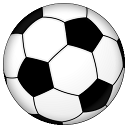
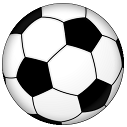
updates
- circular cropping of the ball image
- added ball rotation animation
- increased gravity of ball drop on y-axis
- background dimensions now based on screen size percentage
- score text now at bottom of screen
- "keep it up!" text removed

diff --git a/gamedata/html5kickups/index.html b/gamedata/html5kickups/index.html
@@ -45,9 +45,9 @@
       <script type="text/javascript">
       var width = window.innerWidth;
       var height = window.innerHeight;
-	  var saveButton = "", bgSound, kickSound, cheerSound, background;
+	  var saveButton = "", bgSound, kickSound, cheerSound, background, backdrop, kickDir, rotateDir;
 	  window.saveCheer = false;
-	  var game = new Phaser.Game(window.innerWidth * window.devicePixelRatio, window.innerHeight * window.devicePixelRatio, Phaser.AUTO, 'game', {
+	  var game = new Phaser.Game(width, height, Phaser.ARCADE, 'game', {
         preload: preload
       });
 
@@ -67,9 +67,6 @@
         preload : function () {
           this.load.spritesheet('button_play', 'img/button_play.png', 400, 150);
 		  game.load.audio('introsound', ['sound/intro.mp3']);
-		  game.load.audio('cheer', ['sound/cheer.mp3']);
-		  game.load.audio('kick', ['sound/quick.mp3']);		  
-		  game.load.audio('gameplaysound', ['sound/crowd.mp3']);
         },
         // Place elements in initial positions
         create : function () {
@@ -114,13 +111,16 @@
           // Enable p2 physics
           this.game.physics.startSystem(Phaser.Physics.P2JS);
 
-          this.game.physics.p2.gravity.y = 200;
-          this.game.physics.p2.restitution = 0.8;
-			background = game.add.tileSprite(0, 0, 850, 530, 'background');
-			background.tileScale.x = 1.135;
-			background.tileScale.y = 1.015;
+          this.game.physics.p2.gravity.y = 1000;
+          this.game.physics.p2.restitution = 0.6;
+
+		  // add background
+		  backdrop = game.add.sprite(0, 0, 'background');
+		  backdrop.width = window.innerWidth * 0.99;
+		  backdrop.height = window.innerHeight * 0.90;
+
           // add bottom grass to world
-          var grassHeight = Math.round(height/5);
+          var grassHeight = Math.round(height * 0.1);
           this.grass = this.add.tileSprite(game.world.centerX, height - Math.round(grassHeight/2), width, grassHeight, "grass");
           this.game.physics.p2.enable(this.grass);
           this.grass.body.static = true;
@@ -140,18 +140,24 @@
 
           // big instruction text
           var style = { font: "38px Roboto", fill: "blue", align: "center"};
-          this.instructionText = this.add.text(game.world.centerX, game.world.centerY, "keep it up!", style);
+          this.instructionText = this.add.text(game.world.centerX, game.world.centerY, "", style);
           this.instructionText.anchor.set(0.5);
         },
         kick : function () {
           this.score++;
           if (this.input.x < this.ball.x) {
             this.ball.body.velocity.x = 550;
-            this.ball.body.velocity.y = -550;
+            this.ball.body.velocity.y = -650;
           } else {
-            this.ball.body.velocity.x = -550;
-            this.ball.body.velocity.y = -550;
+            this.ball.body.velocity.x = -450;
+            this.ball.body.velocity.y = -750;
           }
+		  kickDir = game.physics.arcade.angleToPointer(this.ball);
+		  if (kickDir > -1 && kickDir < 90)
+			rotateDir = 'left';
+		  else
+			rotateDir = 'right';
+		  //this.ball.rotation = game.physics.arcade.angleToPointer(this.ball) - Math.PI;
 		  kickSound = game.add.audio('kick');
 		  kickSound.play();
         },
@@ -165,19 +171,35 @@
 			else
 				window.saveCheer = false;
             this.score = 0;
+			for (z=0;z<45;z++) {
+				if (rotateDir == 'right')
+					this.ball.angle += 0.1;
+				else
+					this.ball.angle -= 0.1;
+			}
+
 			if (game.highScore && game.highScore > 0)
 		   		scoreButton(game.highScore);
           }
         },
         update : function () {
           this.updateScore();
+		  if (this.score > 0)
+		  {
+			for (z=0;z<5;z++) {
+				if (rotateDir == 'right')
+					this.ball.angle += 1;
+				else
+					this.ball.angle -= 1;
+			}
+		  }
         },
         updateScore : function () {
           if (this.scoreText != null) {
             this.scoreText.destroy();
           }
           var style = { font : "18px Roboto", fill: "blue", align: "center" };
-          this.scoreText = this.add.text(game.world.centerX, 50, "Score: " + this.score + ", Highscore: " + game.highScore, style);
+		  this.scoreText = this.add.text(game.world.centerX, game.world.height - 20, "Score: " + this.score + ", Highscore: " + game.highScore, style);
           this.scoreText.anchor.set(0.5);
         }
       };
@@ -197,7 +219,11 @@
 
         // Start initial state - MainMenu
 		game.load.image('background','img/field.jpg');
-		game.input.touch.preventDefault = true;		
+		game.input.touch.preventDefault = true;
+		game.load.audio('cheer', ['sound/cheer.mp3']);
+		game.load.audio('kick', ['sound/quick.mp3']);
+		game.load.audio('introsound', ['sound/intro.mp3']);
+		game.load.audio('gameplaysound', ['sound/crowd.mp3']);
 		game.state.start('MainMenu');
       }
 	  function kickoffBgMusic(game, mySound, volume) {
